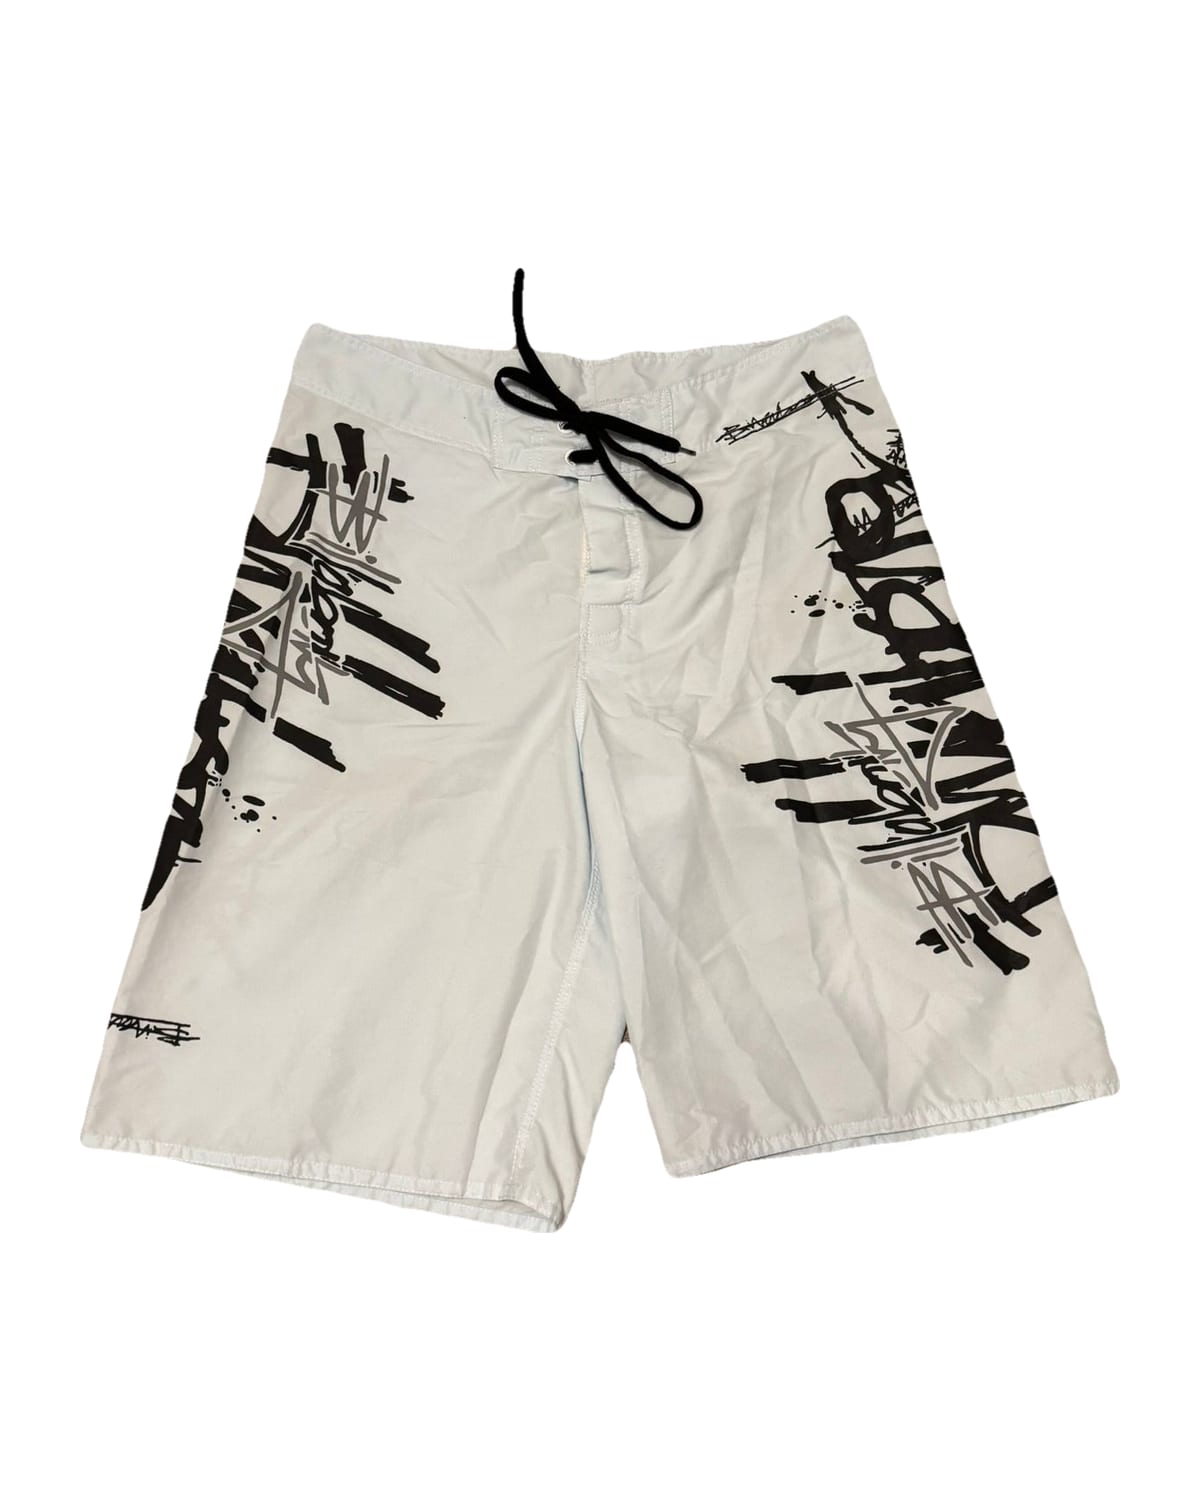
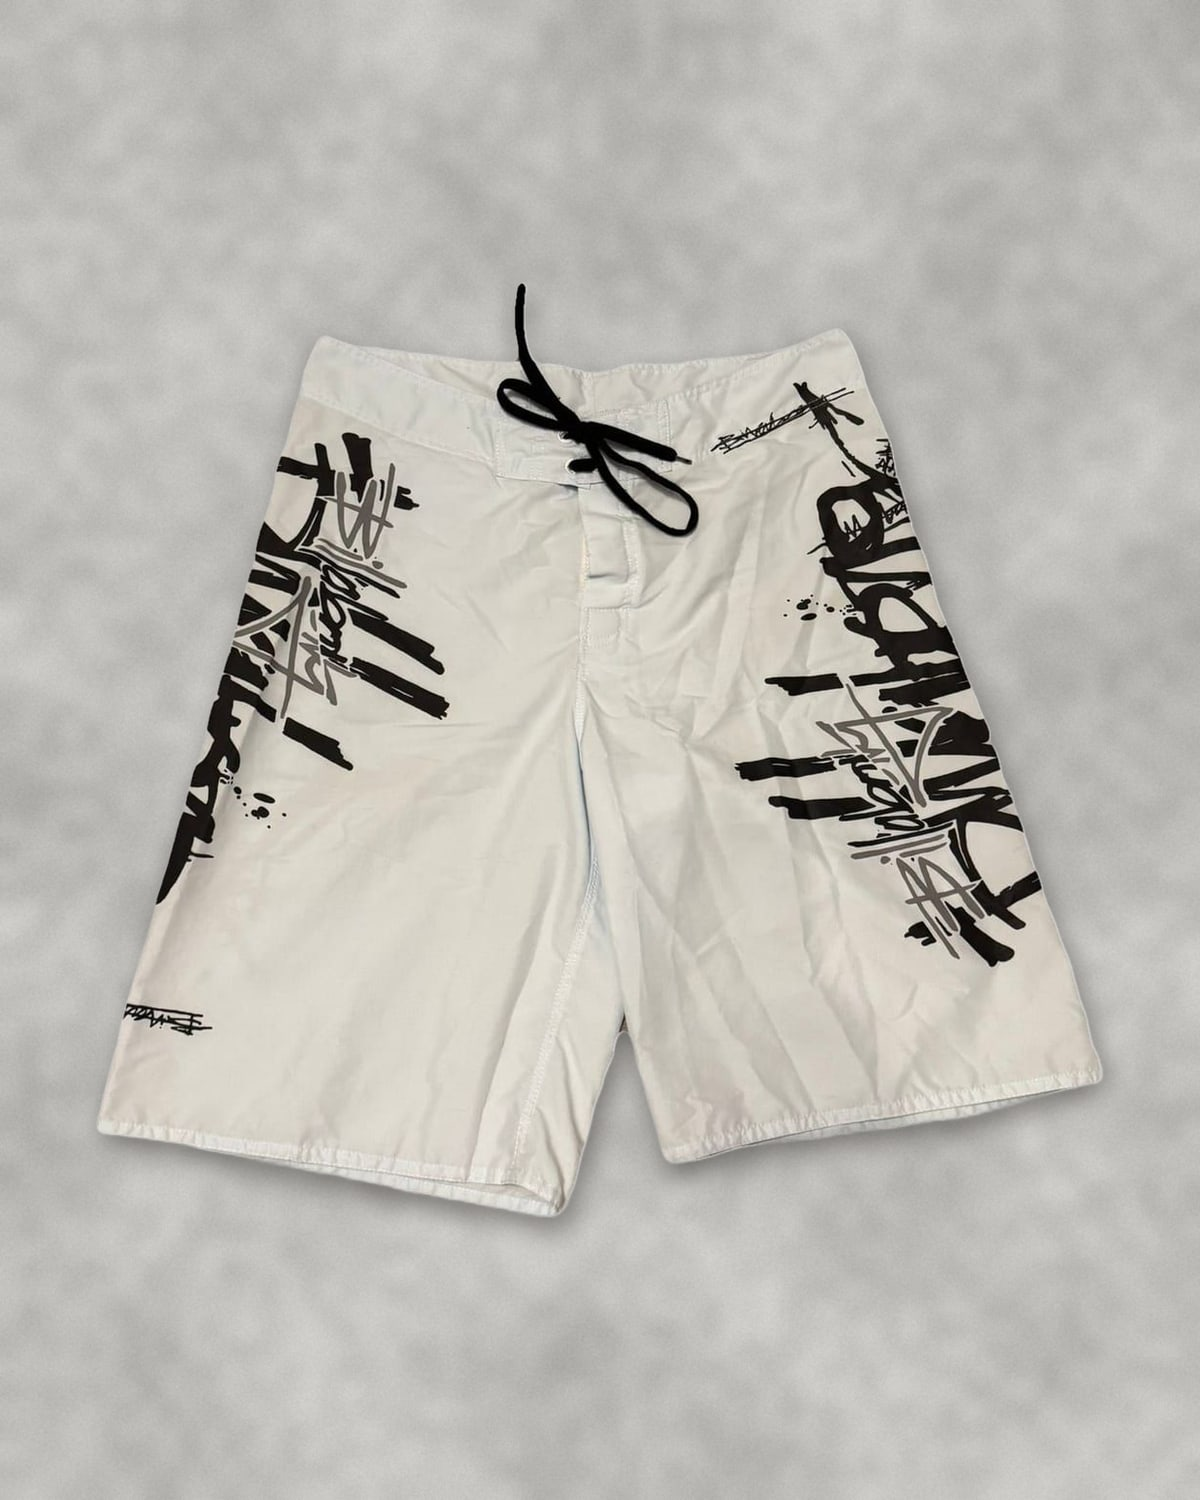
New look inspired by vintage surf shops: navy / off-white palette, condensed capital headings (Barlow Condensed, Archivo Narrow), square corners, navy top bar and footer; every piece photo on the same light concrete floor (npm run photos:background -- <piece> --flatlay); model photos switched off (s

diff --git a/website/src/styles/global.css b/website/src/styles/global.css
@@ -6,18 +6,23 @@
 :root {
 	color-scheme: light;
 
-	--bg: light-dark(#f5f2ea, #0b1416);
-	--bg-raised: light-dark(#fffdf8, #122024);
-	--bg-sunken: light-dark(#ebe5d8, #070e10);
-	--ink: light-dark(#14262b, #e6efee);
-	--ink-soft: light-dark(#4a5f63, #a3b8b9);
-	--line: light-dark(#dcd4c3, #23363a);
-	--accent: light-dark(#0e5f6e, #6cc6cf);
-	--accent-strong: light-dark(#0a4753, #9adce1);
-	--accent-tint: light-dark(#d9ecee, #12343a);
-	--on-accent: light-dark(#ffffff, #06191c);
-	--sand: light-dark(#9a6a1f, #e0b878);
-	--sand-tint: light-dark(#f1e5cc, #2c2617);
+	/* Palette "Night surf" (since 24 Nov 2026): warm off-white, ink, deep navy, surf blue. The earlier teal and sand
+	   palette is on the branch save-before-syds-look. */
+	--bg: light-dark(#fffdf9, #10161d);
+	--bg-raised: light-dark(#ffffff, #17202a);
+	--bg-sunken: light-dark(#f1eee7, #0b1015);
+	--ink: light-dark(#2e2a39, #eceaf1);
+	--ink-soft: light-dark(#5f5b6b, #aaa6b5);
+	--line: light-dark(#e3ded4, #27313d);
+	--accent: light-dark(#162a3d, #a9c4e8);
+	--accent-strong: light-dark(#0b1826, #cfdff3);
+	--accent-tint: light-dark(#e4eaf1, #1c2b3b);
+	--on-accent: light-dark(#ffffff, #0b1826);
+	--sand: light-dark(#2b5c9c, #8db3e6);
+	--sand-tint: light-dark(#edf1f8, #1a2534);
+	/* Deep navy for the top bar and the footer, in light and dark mode. */
+	--navy: light-dark(#162a3d, #0b1826);
+	--on-navy: #ffffff;
 	--focus: light-dark(#c2410c, #fdba74);
 
 	--font-body: var(--font-sans), system-ui, sans-serif;
@@ -30,8 +35,9 @@
 	--step-3: clamp(1.8rem, 1.5rem + 1.5vw, 2.7rem);
 	--step-4: clamp(2.2rem, 1.7rem + 2.6vw, 3.7rem);
 
-	--radius: 14px;
-	--radius-sm: 8px;
+	/* Square corners everywhere, like a printed shop tag. */
+	--radius: 0px;
+	--radius-sm: 0px;
 	--shadow: 0 1px 2px rgb(0 0 0 / 0.05), 0 6px 20px -8px rgb(0 0 0 / 0.15);
 	--content: 46rem;
 	--wide: 72rem;
@@ -103,9 +109,10 @@ h2,
 h3,
 h4 {
 	font-family: var(--font-display);
-	font-weight: 700;
-	line-height: 1.1;
-	letter-spacing: -0.02em;
+	font-weight: 800;
+	line-height: 1;
+	letter-spacing: 0.01em;
+	text-transform: uppercase;
 	text-wrap: balance;
 }
 h1 {
@@ -244,12 +251,15 @@ small,
 	align-items: center;
 	gap: 0.5em;
 	padding: 0.65em 1.15em;
-	border-radius: 999px;
+	border-radius: 0;
 	border: 1.5px solid var(--accent);
 	background: var(--accent);
 	color: var(--on-accent);
-	font-weight: 600;
-	font-size: var(--step--1);
+	font-family: var(--font-display);
+	font-weight: 700;
+	font-size: var(--step-0);
+	letter-spacing: 0.06em;
+	text-transform: uppercase;
 	line-height: 1.2;
 	text-decoration: none;
 	cursor: pointer;
@@ -292,7 +302,7 @@ small,
 	font-size: 0.78rem;
 	font-weight: 500;
 	padding: 0.15em 0.65em;
-	border-radius: 999px;
+	border-radius: 0;
 	background: var(--sand-tint);
 	color: var(--ink);
 }

diff --git a/website/src/lib/products.ts b/website/src/lib/products.ts
@@ -1,14 +1,28 @@
 // Products come from src/content/products/ (see content.config.ts).
 
 import { getCollection, type CollectionEntry } from 'astro:content';
-import { CATEGORIES, SITE } from '../config';
+import { CATEGORIES, SHOW_MODEL_PHOTOS, SITE } from '../config';
 
 export type Product = CollectionEntry<'products'>;
+
+/**
+ * Model photos (the "models" list) are shown only while showModelPhotos is true in src/settings/site.json. Switched off,
+ * every piece shows just its own photos; the model photo files stay in the folders, so switching back is one setting.
+ */
+export function withVisiblePhotos(product: Product): Product {
+	if (SHOW_MODEL_PHOTOS) return product;
+	const models = new Set([...product.data.models.women, ...product.data.models.men]);
+	if (!models.size) return product;
+	const photos = product.data.photos.filter((_, i) => !models.has(i + 1));
+	// A piece with only model photos keeps them (better than no photo at all).
+	if (!photos.length) return product;
+	return { ...product, data: { ...product.data, photos, models: { women: [], men: [] } } };
+}
 
 /** Every published piece, auction lots included: drafts only show in `npm run dev`. Newest (highest folder number) first. */
 export async function getAllProducts(): Promise<Product[]> {
 	const all = await getCollection('products', (p) => import.meta.env.DEV || !p.data.draft);
-	return all.sort((a, b) => b.id.localeCompare(a.id, undefined, { numeric: true }));
+	return all.sort((a, b) => b.id.localeCompare(a.id, undefined, { numeric: true })).map(withVisiblePhotos);
 }
 
 /** The shop's pieces: like getAllProducts, without the auction lots (auctionOnly), which only live on /auctions/. */

diff --git a/website/src/config.ts b/website/src/config.ts
@@ -36,6 +36,9 @@ export function zurichTime(value: string): Date | null {
 }
 
 /** Who runs the shop, for the imprint and the legal pages. */
+/** Show the AI model photos of the pieces (src/settings/site.json, showModelPhotos). Off: only the photos of the piece itself. */
+export const SHOW_MODEL_PHOTOS: boolean = settings.showModelPhotos ?? true;
+
 export const OWNER = {
 	name: settings.ownerName,
 	legalForm: settings.legalForm,

diff --git a/website/OWNER-ANLEITUNG.md b/website/OWNER-ANLEITUNG.md
@@ -155,3 +155,9 @@ npm run photos:background -- 0013
 ```
 
 (0013 = die Nummer des Pieces). Bearbeitet werden nur die Bilder, die in `models:` stehen; Person und Kleidung bleiben unverändert. Die Originale landen in `raw-docs/photo-originals/`. Danach committen und pushen.
+
+## Look «Night surf» (seit 24. November 2026)
+
+- Farben Navy / Off-White, Überschriften in schmalen Grossbuchstaben, eckige Buttons. Das alte Design (Petrol / Sand) ist auf dem Branch **save-before-syds-look** gespeichert. Zurück wechseln: Claude sagen «stell das Design von save-before-syds-look wieder her».
+- **Model-Bilder** sind ausgeschaltet: `showModelPhotos` in `src/settings/site.json` auf `true` stellen, dann erscheinen sie wieder (die Dateien sind noch da).
+- **Fotos der Pieces** liegen alle auf demselben hellen Betonboden. Für ein neues Piece: `npm run photos:background -- 0013 --flatlay` (Nahaufnahmen von Etiketten bleiben, wie sie sind). Originale in `raw-docs/photo-originals/`.
